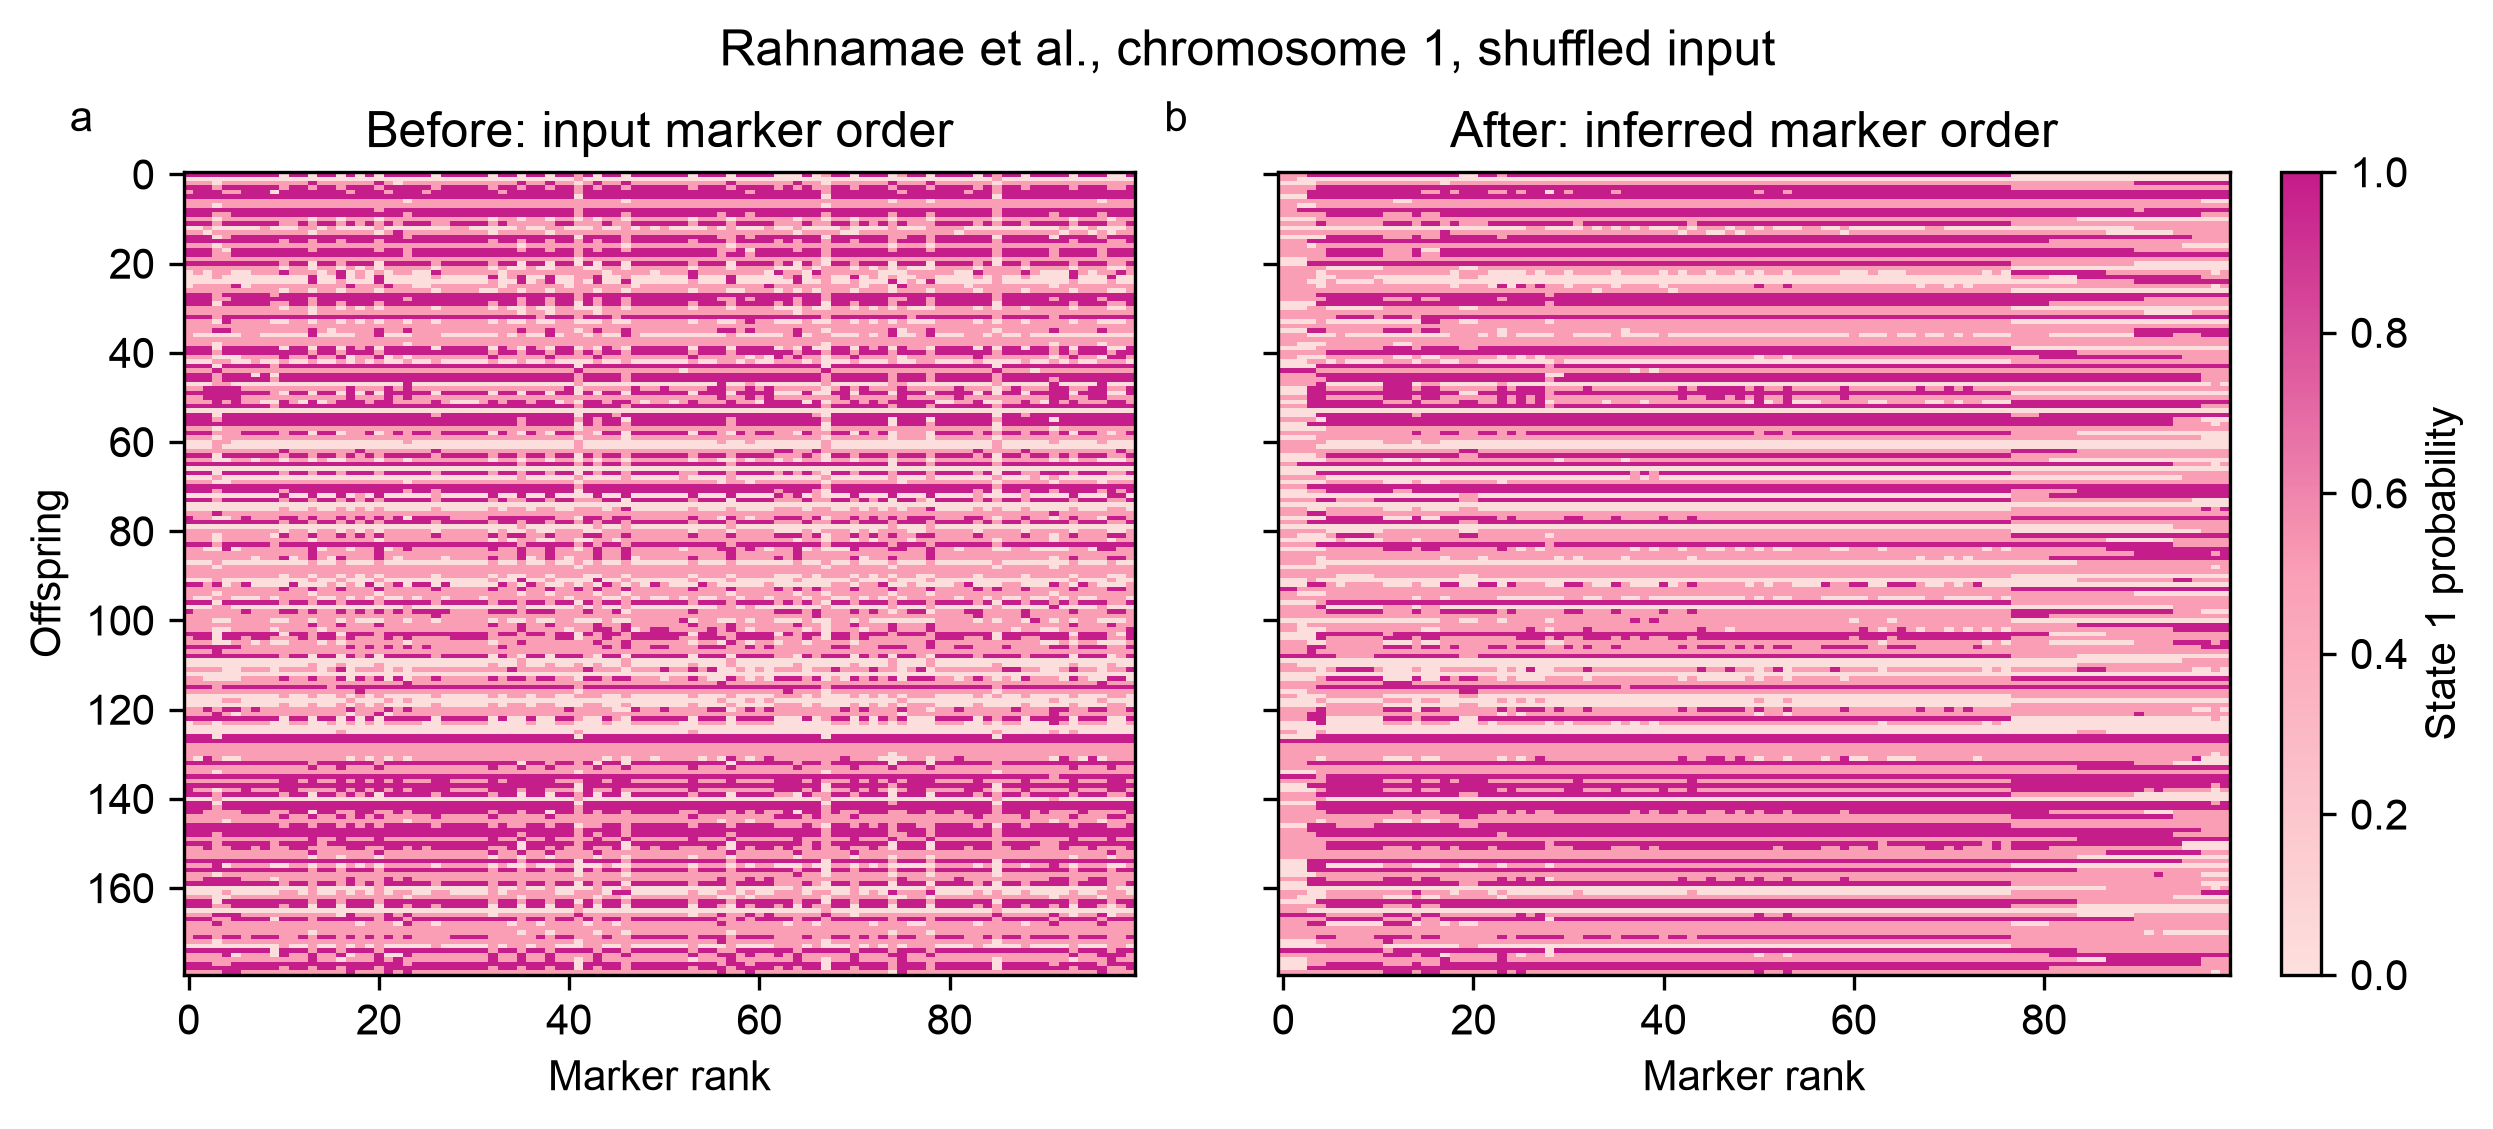
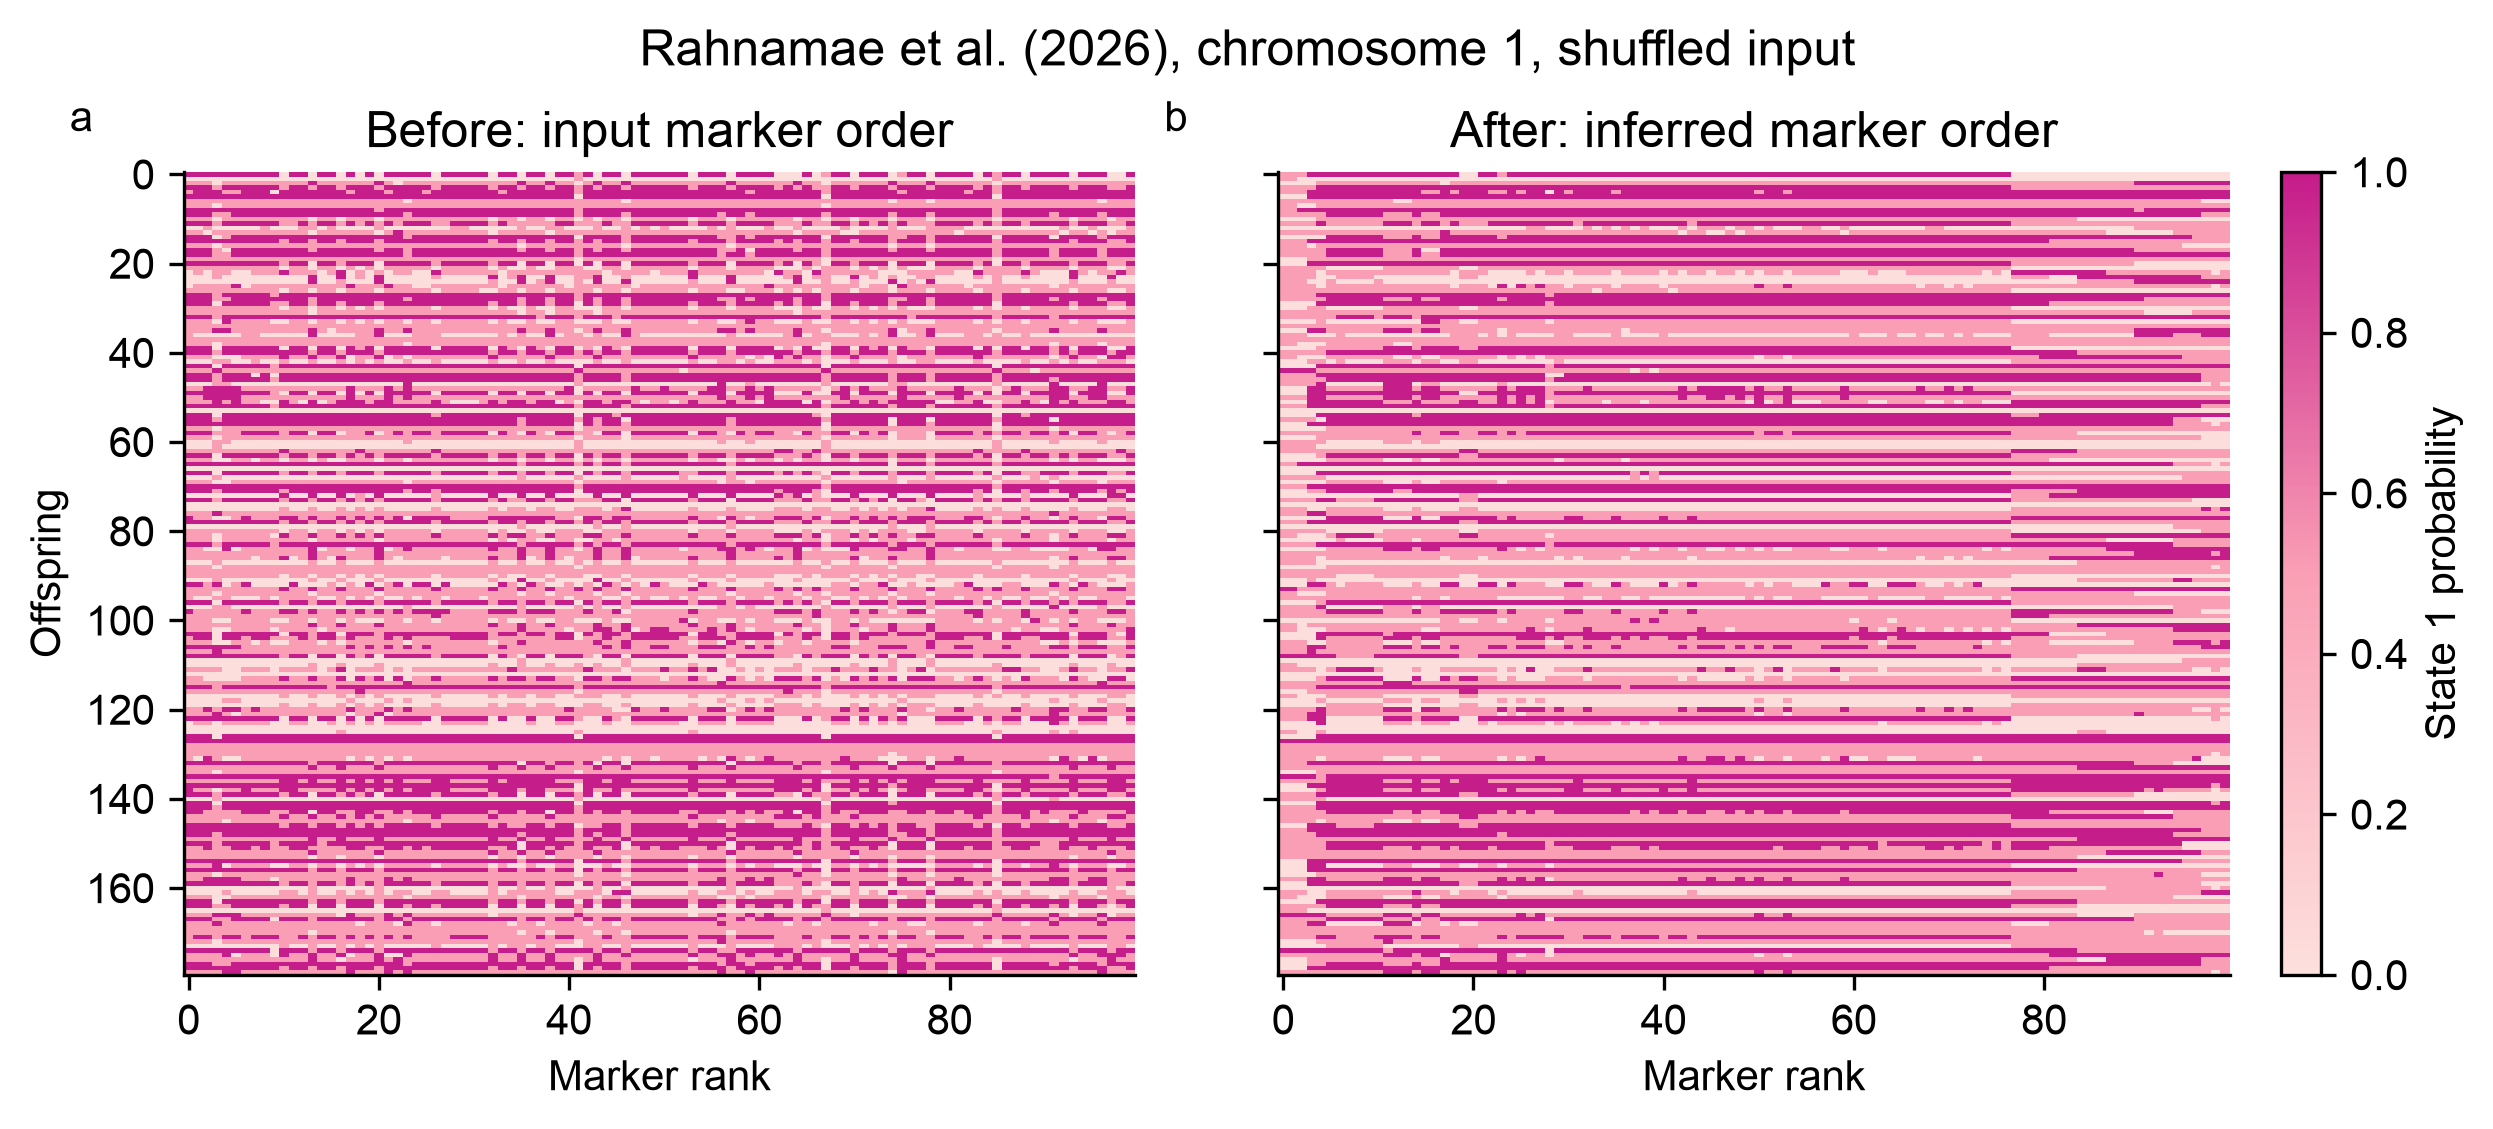
Correct Rahnamae citation year

Changed region(s): [[0.2471, 0.031, 0.7413, 0.062], [0.5251, 0.124, 0.8957, 0.155], [0.0927, 0.124, 0.4633, 0.155]]

diff --git a/softmap/datasets.py b/softmap/datasets.py
@@ -115,7 +115,7 @@ def contemporary_hybridization(
         probabilities,
         tuple(row[0] for row in rows),
         np.asarray([float(row[2]) for row in rows]),
-        f"Rahnamae et al., chromosome {chromosome}",
+        f"Rahnamae et al. (2026), chromosome {chromosome}",
         physical_positions,
     )
 
@@ -137,5 +137,5 @@ def contemporary_map_positions(
         np.asarray([int(row[1]) for row in rows]),
         np.asarray([float(row[0].rsplit("_", 1)[1]) for row in rows]),
         np.asarray([float(row[2]) for row in rows]),
-        "Rahnamae et al. physical and genetic map",
+        "Rahnamae et al. (2026), physical and genetic map",
     )

diff --git a/softmap/plotting.py b/softmap/plotting.py
@@ -371,7 +371,10 @@ def plot_physical_order_grid(
         )
     for axis in axes[len(mappings) * 2:]:
         axis.set_visible(False)
-    fig.suptitle("Physical position vs genetic-map order, before and after", fontweight="normal")
+    fig.suptitle(
+        "Rahnamae et al. (2026): physical position vs genetic-map order",
+        fontweight="normal",
+    )
     if path is not None:
         destination = Path(path)
         destination.parent.mkdir(parents=True, exist_ok=True)

diff --git a/docs/plotting.md b/docs/plotting.md
@@ -38,7 +38,11 @@ This conversion tests loading, fitting, uncertainty summaries, and plotting, but
 does not perform full F2 phase inference and should not be treated as a revised
 biological map.
 
-Source: [Rahnamae et al., Contemporary_hybridization](https://github.com/nedarahnama/Contemporary_hybridization)
+Source data: [Rahnamae et al., Contemporary_hybridization](https://github.com/nedarahnama/Contemporary_hybridization)
+
+Article: Rahnamae et al. (2026), New Phytologist 249: 1542–1557,
+[doi:10.1111/nph.70779](https://doi.org/10.1111/nph.70779). The article was first
+published online in December 2025; its final citation year is 2026.
 
 ## Physical and genetic map
 

diff --git a/docs/index.md b/docs/index.md
@@ -25,8 +25,8 @@ rather than centimorgan distances, so the vertical axes are marker ranks.
 
 ![Marker order before and after](assets/marker_order_before_after.png)
 
-The marker-matrix figure shows a reproducibly shuffled chromosome 1 from the Rahnamae
-et al. dataset before and after marker ordering. Both panels contain the same
+The marker-matrix figure shows a reproducibly shuffled chromosome 1 from the
+Rahnamae et al. (2026) dataset before and after marker ordering. Both panels contain the same
 probabilities; only the marker columns change. See the
 [plotting guide](plotting.md) for the conversion and interpretation.
 

diff --git a/README.md b/README.md
@@ -45,7 +45,7 @@ general F2 and full-sib data.
 ## Published-data example
 
 The repository includes a reproducible example using chromosome 1 from the
-[Rahnamae et al. contemporary hybridization dataset](https://github.com/nedarahnama/Contemporary_hybridization):
+[Rahnamae et al. (2026) contemporary hybridization dataset](https://github.com/nedarahnama/Contemporary_hybridization):
 
 ```bash
 python examples/contemporary_hybridization.py
